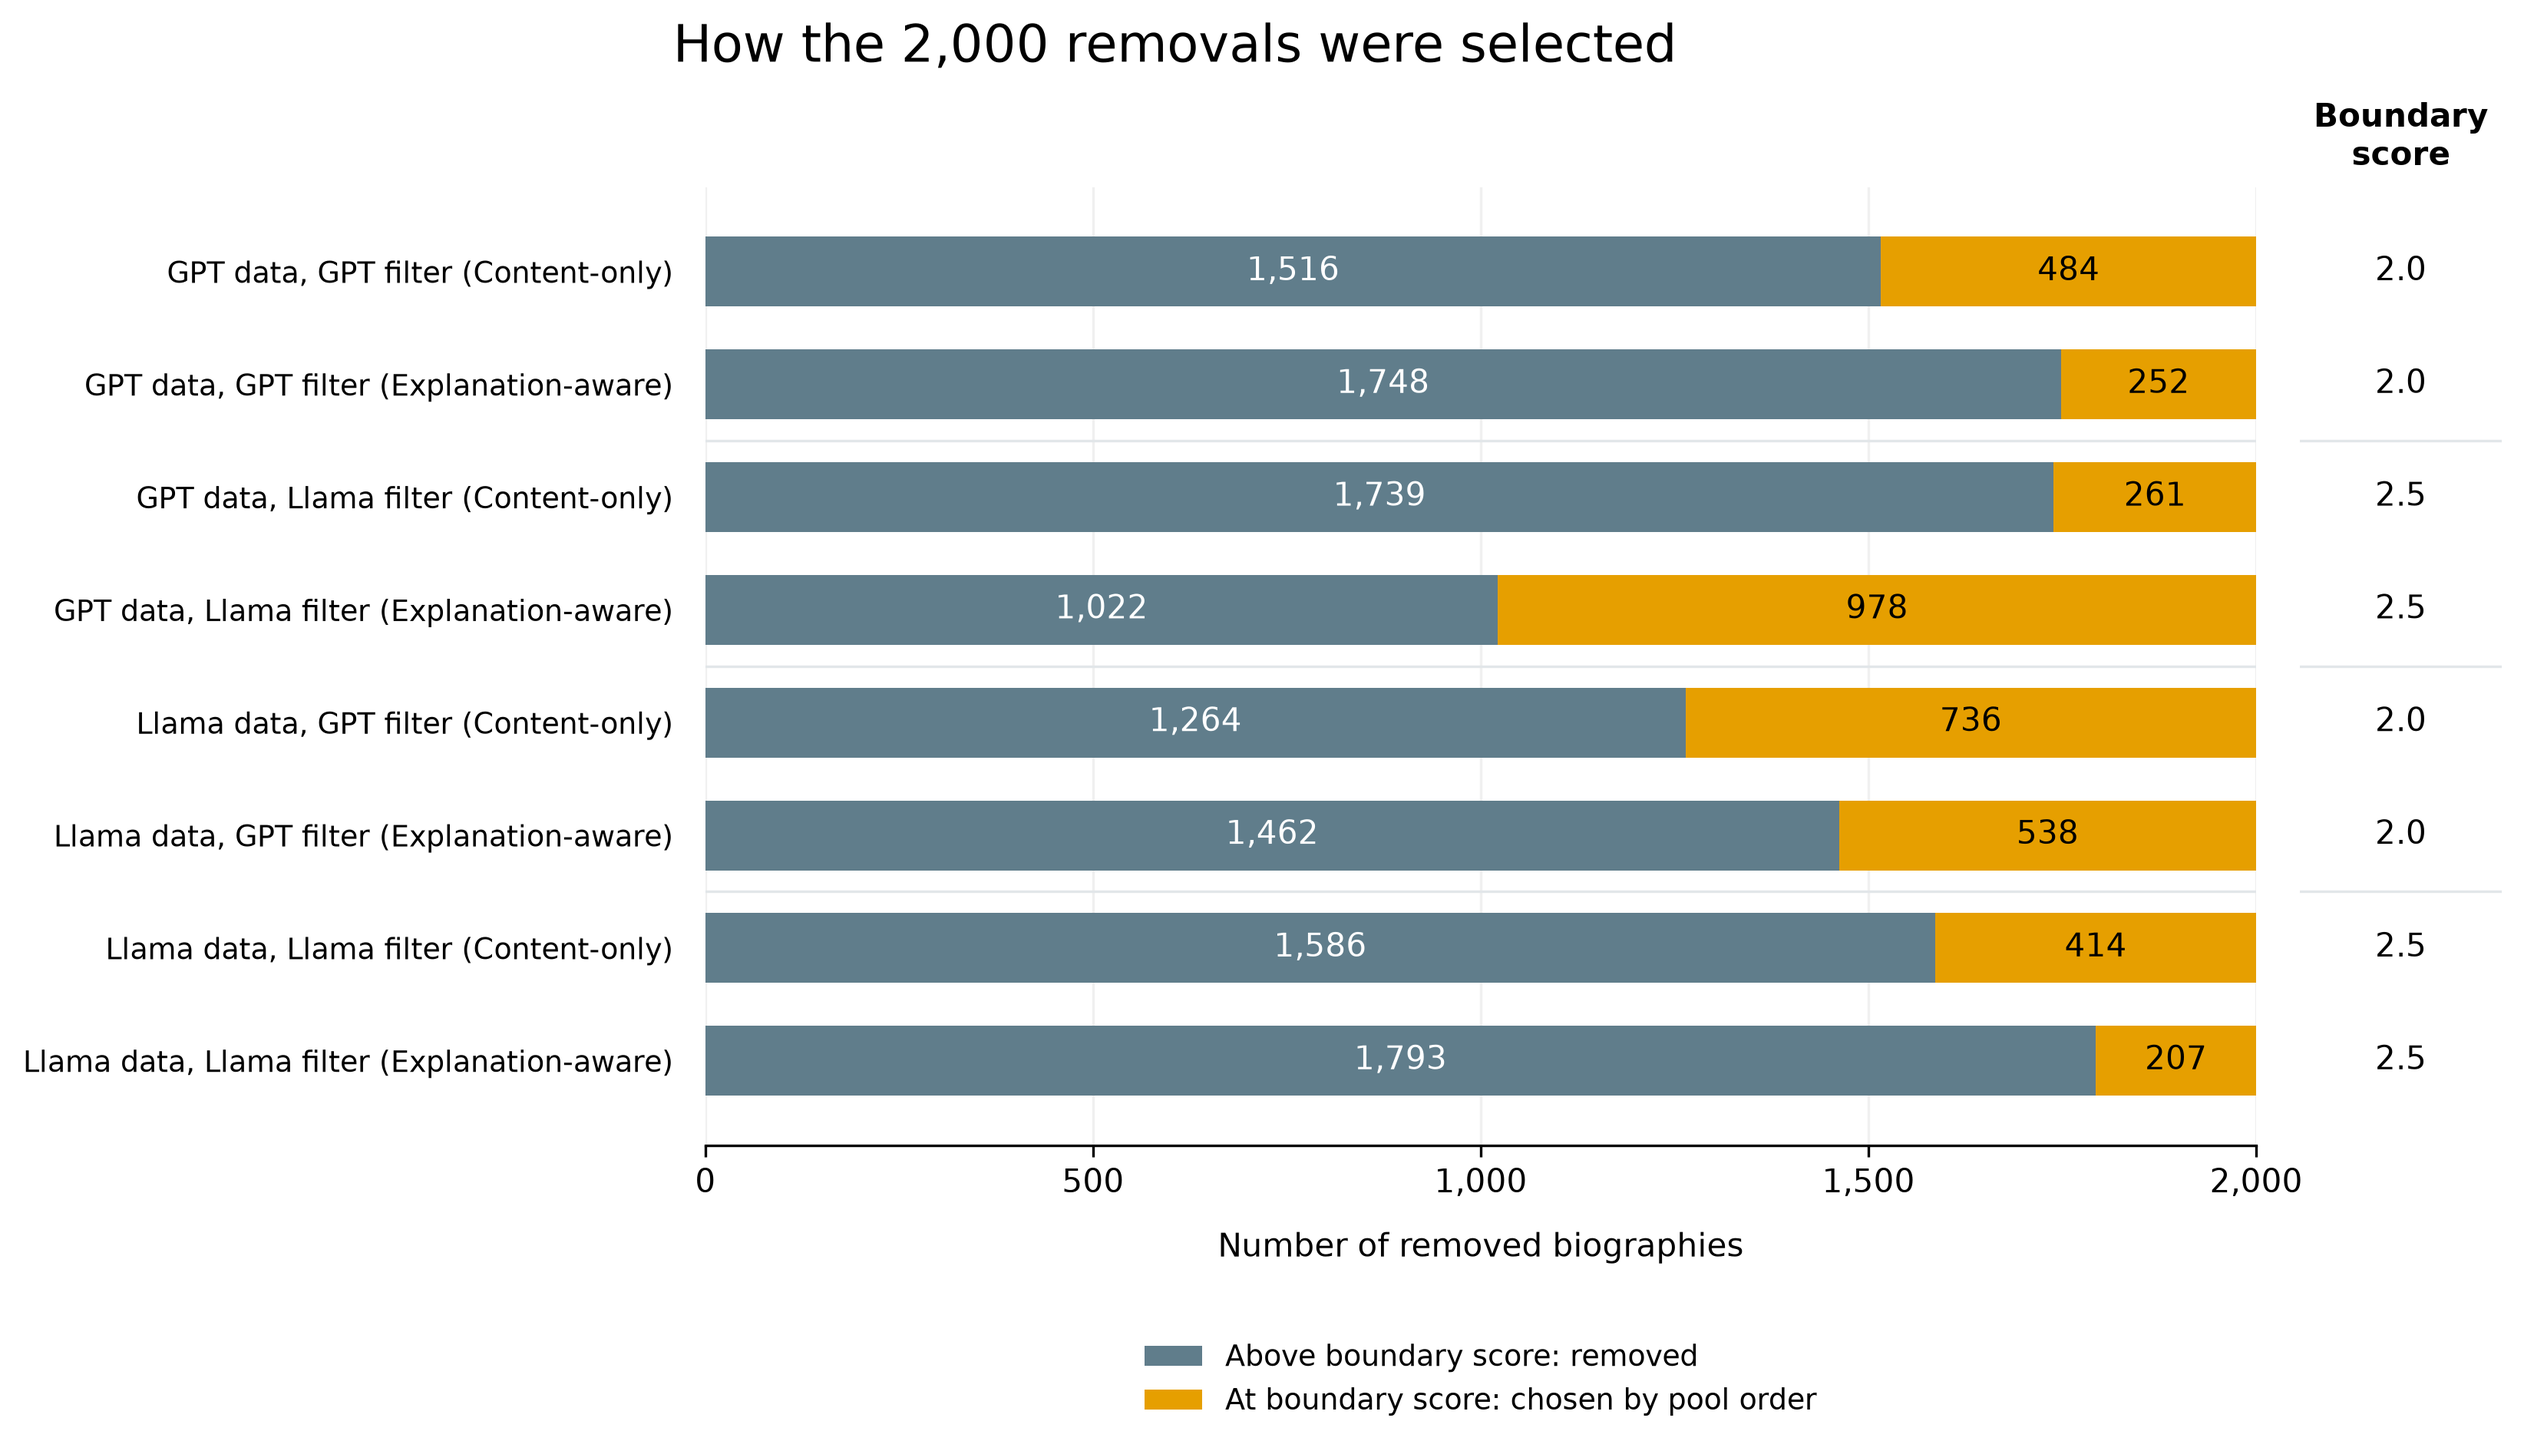
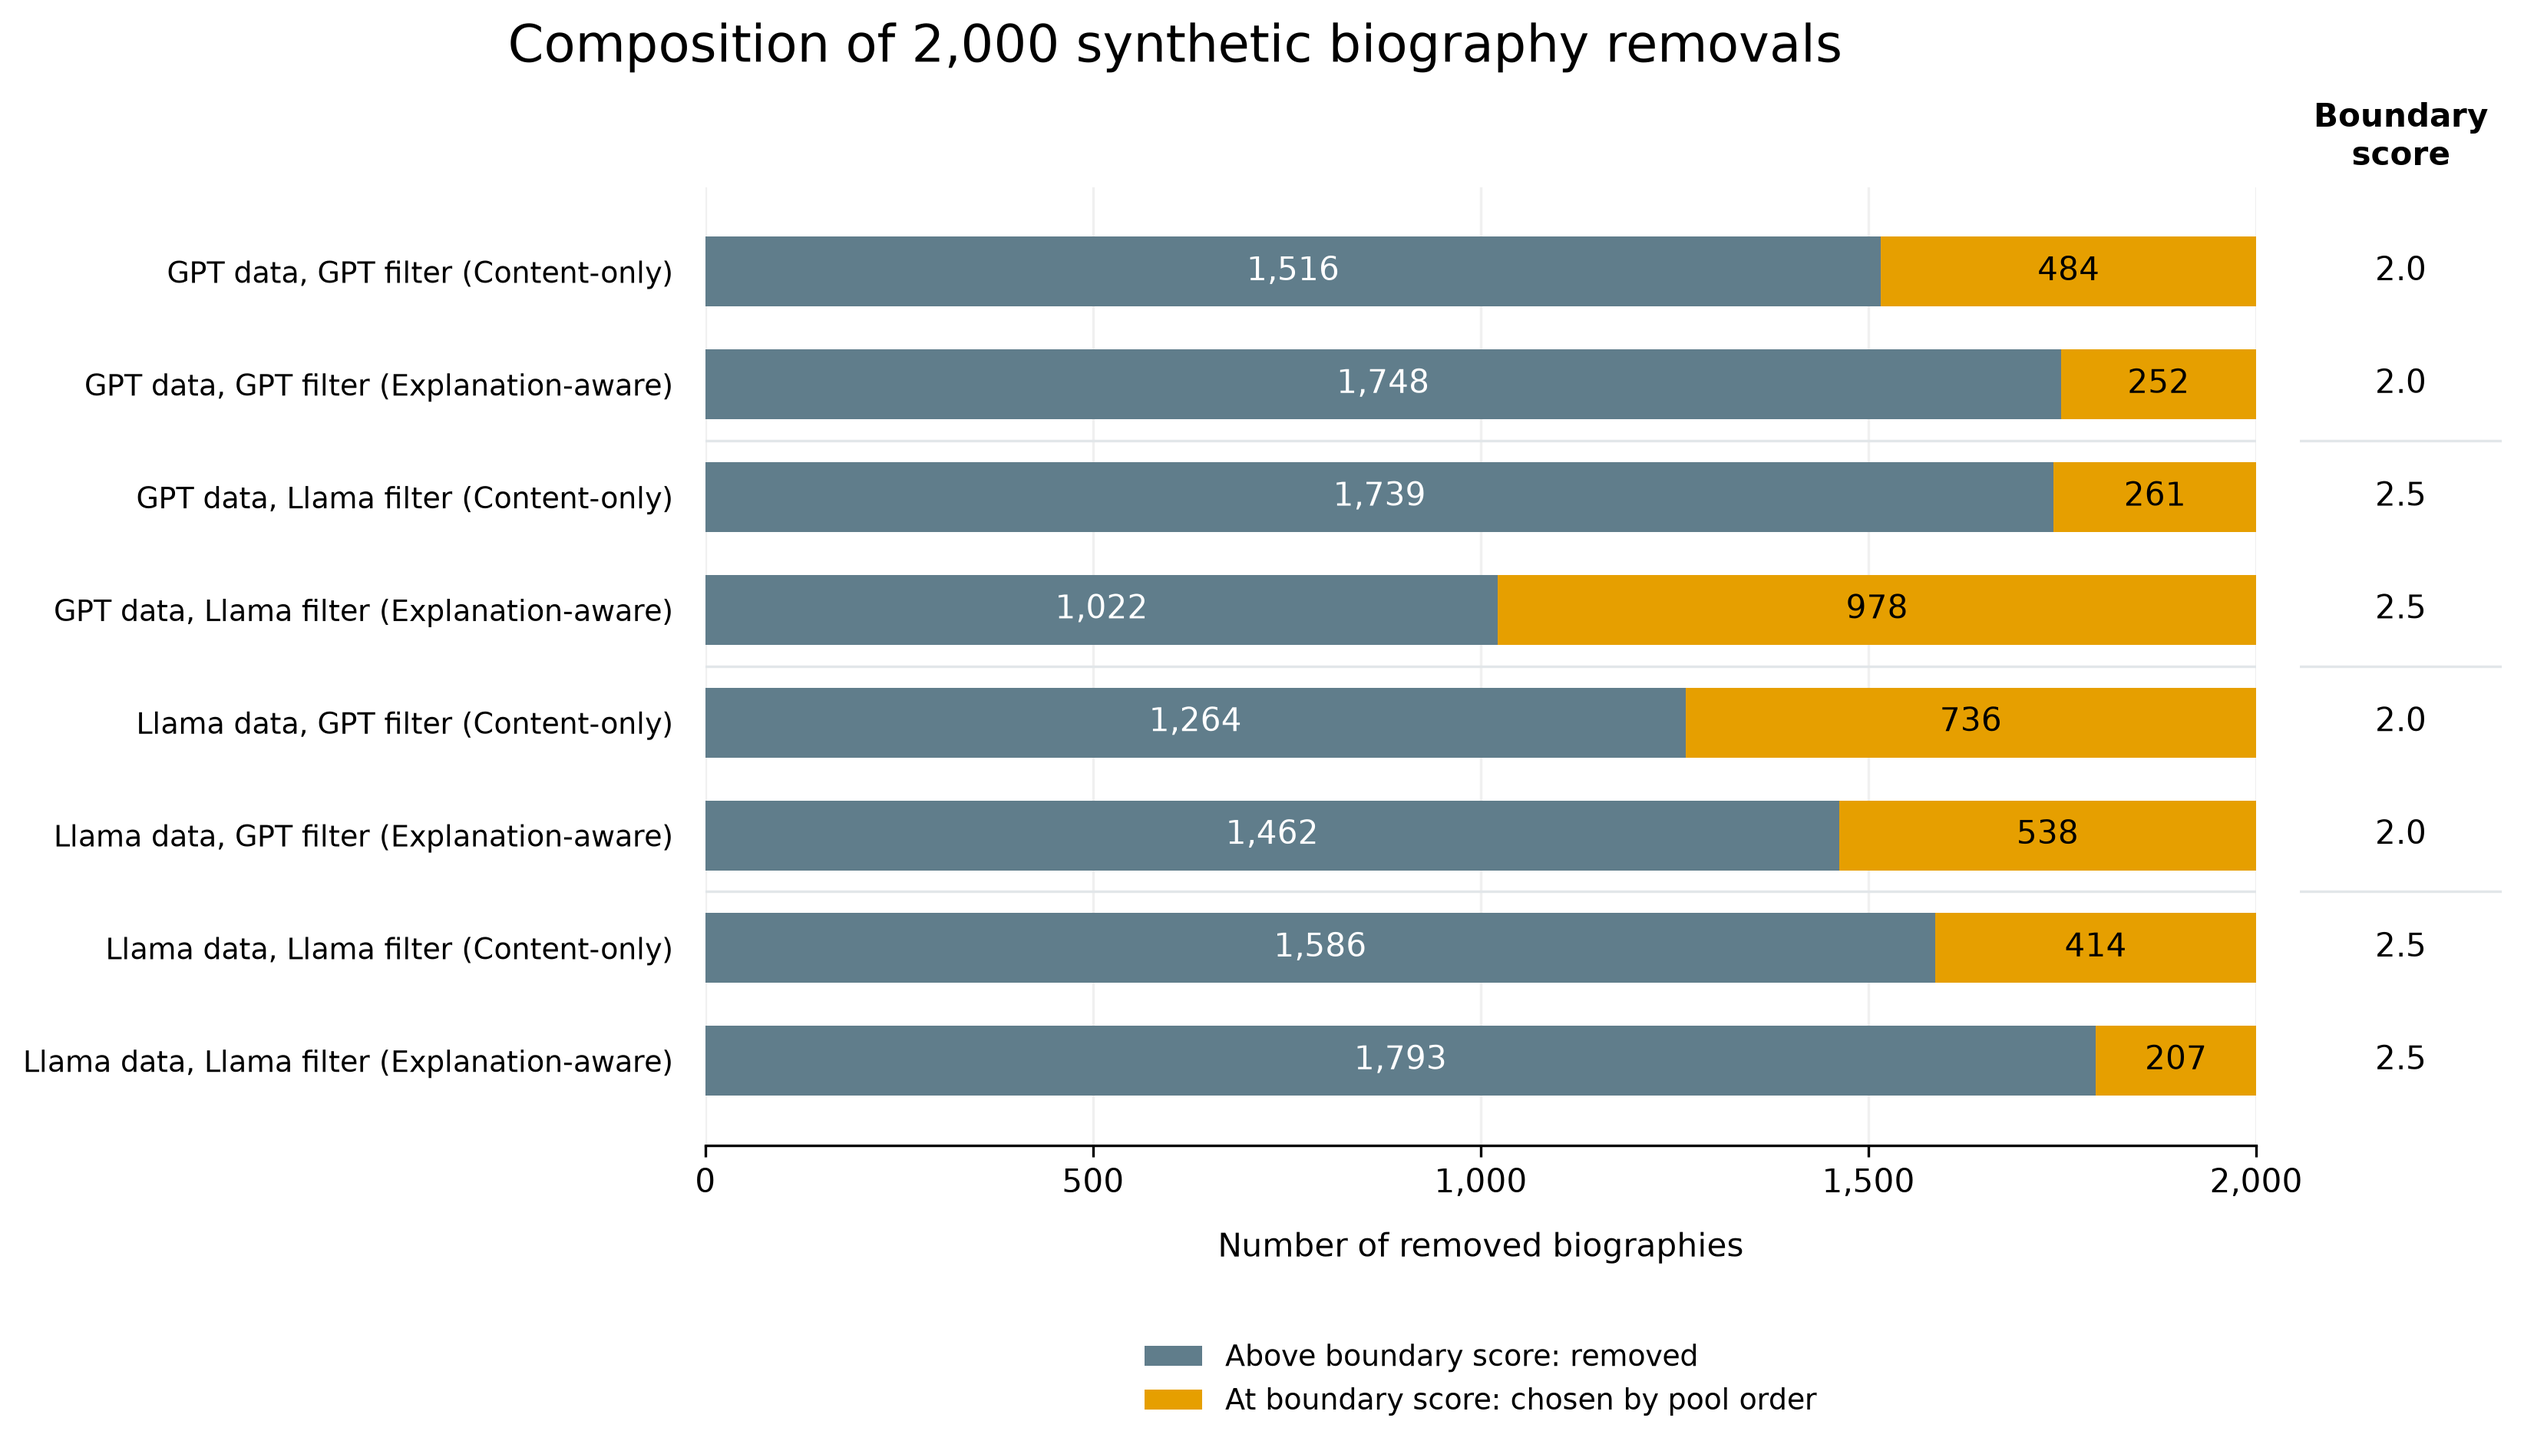
figure title change

Changed region(s): [[0.2172, 0.0, 0.7135, 0.0624]]

diff --git a/analysis/filtering_scores.py b/analysis/filtering_scores.py
@@ -19,9 +19,9 @@ SCORE_VALUES = [
 
 # Folder / experiment name, synthetic data generator, filtering model.
 EXPERIMENTS = [
-    ("GPT-generated-data-GPT-filtering-full", "GPT-4o-mini", "GPT-4o-mini"),
-    ("GPT-generated-data-llama-filtering-full", "GPT-4o-mini", "Llama"),
-    ("Llama-generated-data-filtering-GPT-full", "Llama", "GPT-4o-mini"),
+    ("GPT-generated-data-GPT-filtering-full", "GPT", "GPT"),
+    ("GPT-generated-data-llama-filtering-full", "GPT", "Llama"),
+    ("Llama-generated-data-filtering-GPT-full", "Llama", "GPT"),
     ("Llama-generated-data-llama-filtering-full", "Llama", "Llama"),
 ]
 
@@ -114,9 +114,7 @@ def plot_removal_composition():
             tied_removed_counts.append(int((removed_scores == cutoff).sum())) # counts how many removed scores were the cutoff value
             cutoffs.append(cutoff)
 
-            generator_label = generator.replace("GPT-4o-mini", "GPT")
-            filter_label = filtering_model.replace("GPT-4o-mini", "GPT")
-            row_labels.append(f"{generator_label} data, {filter_label} filter ({label})")
+            row_labels.append(f"{generator} data, {filtering_model} filter ({label})")
 
     figure, (axis, boundary_axis) = plt.subplots(
         1, 2, figsize=(12, 6.5), sharey=True,
@@ -177,7 +175,7 @@ def plot_removal_composition():
         axis.axhline(split, color="#E2E6E9", linewidth=0.8)
         boundary_axis.axhline(split, color="#E2E6E9", linewidth=0.8)
 
-    figure.suptitle(f"How the {NUMBER_TO_REMOVE:,} removals were selected", fontsize=16)
+    figure.suptitle(f"Composition of {NUMBER_TO_REMOVE:,} synthetic biography removals", fontsize=16)
     figure.subplots_adjust(
         left=0.33,
         right=0.98,
